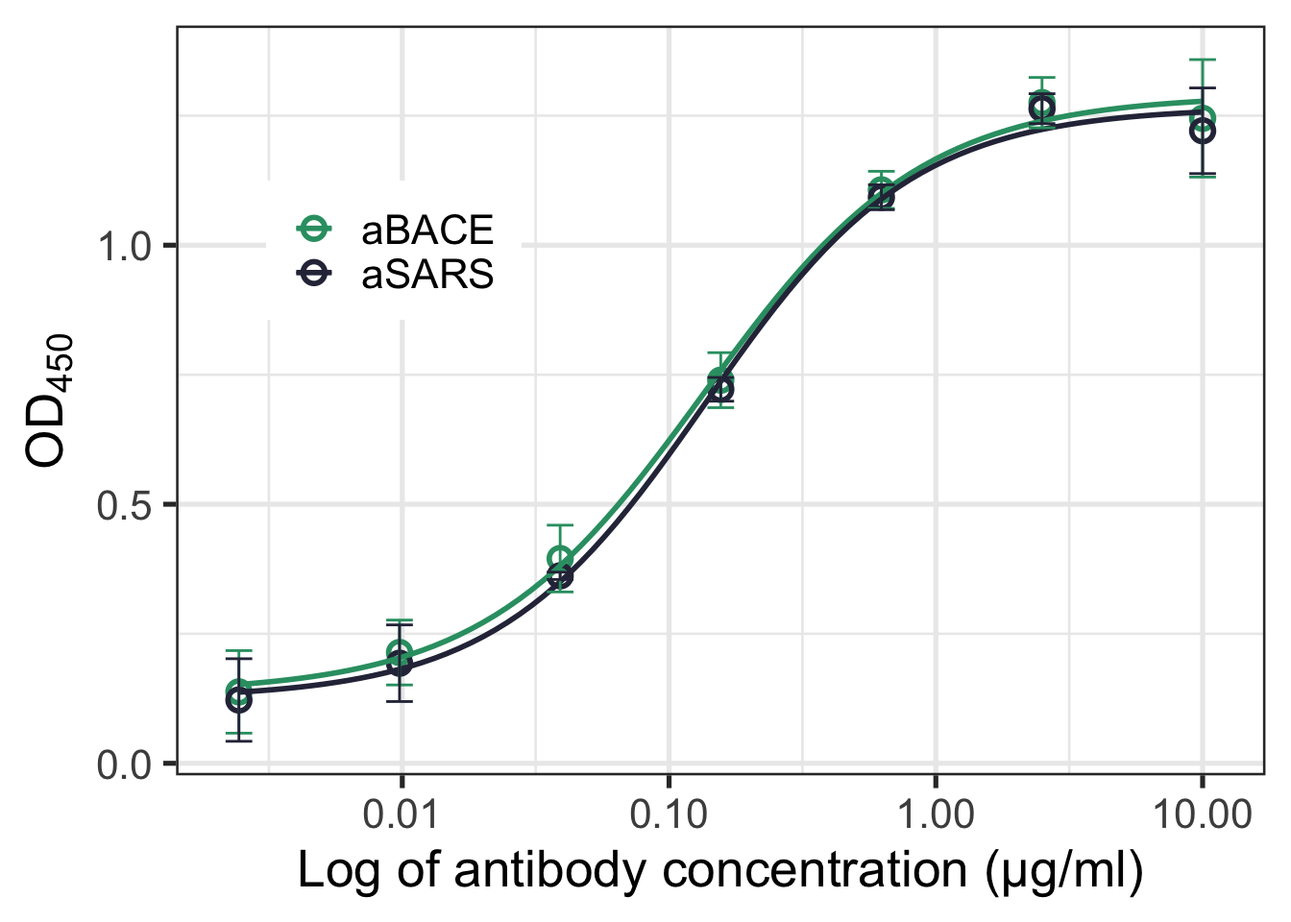
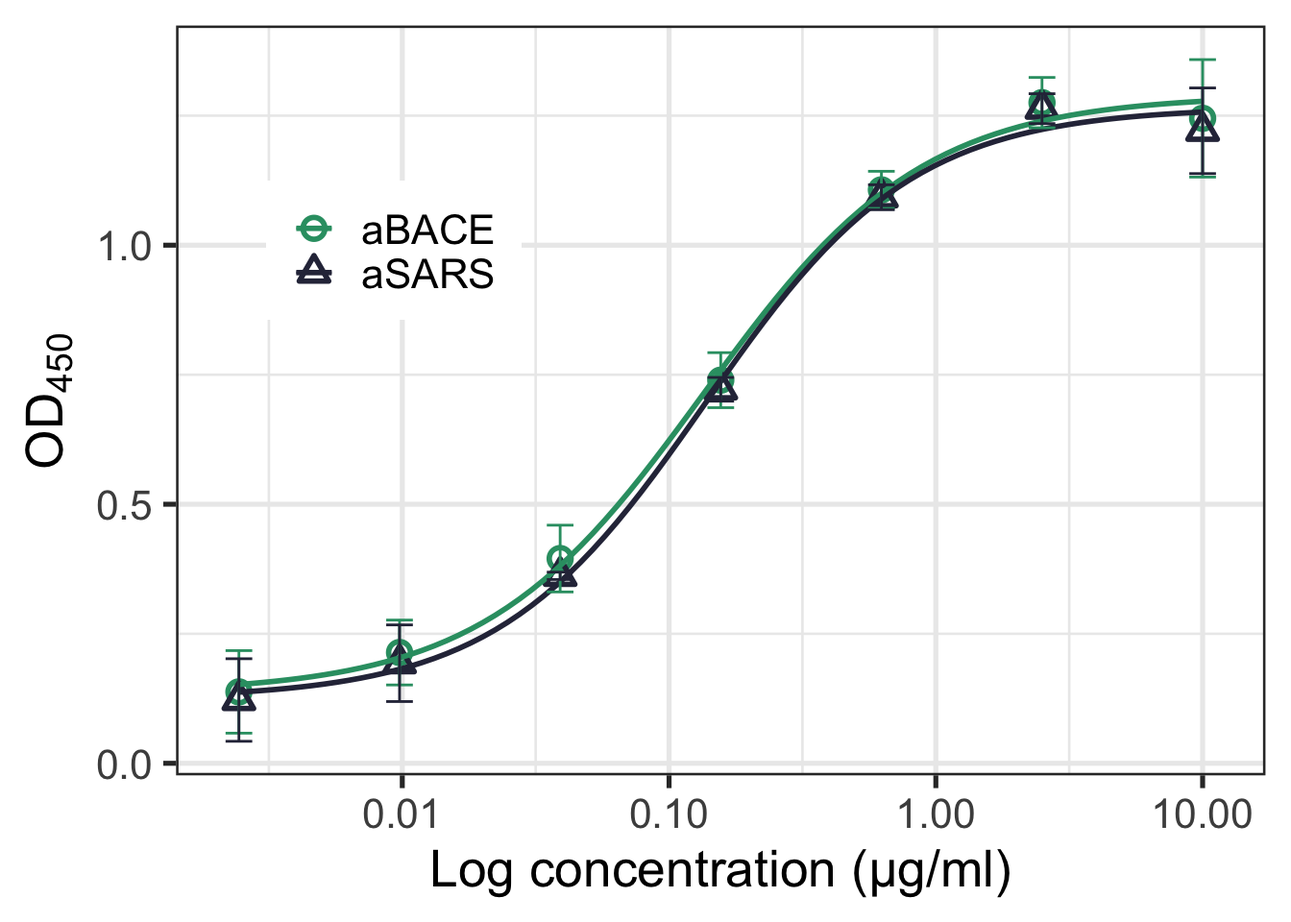
updated

diff --git a/public/blog/elisa_drc/index.html b/public/blog/elisa_drc/index.html
@@ -38,9 +38,9 @@
 
 
     
-        <meta property="og:image" content="//localhost:4321/blog/elisa_drc/featured.jpg" >
+        <meta property="og:image" content="//localhost:4321/blog/elisa_drc/featured.png" >
         <meta property="twitter:card" content="summary_large_image">
-        <meta name="twitter:image" content="//localhost:4321/blog/elisa_drc/featured.jpg" >
+        <meta name="twitter:image" content="//localhost:4321/blog/elisa_drc/featured.png" >
     
     
   
@@ -49,8 +49,8 @@
 library(readr) library(dplyr) library(ggplot2) library(drc) library(broom) The data Our data is a dose response ELISA experiment for two different antibody reagents. The data can be found here.">
   <meta itemprop="datePublished" content="2023-06-08T00:00:00+00:00">
   <meta itemprop="dateModified" content="2023-06-08T00:00:00+00:00">
-  <meta itemprop="wordCount" content="521">
-  <meta itemprop="image" content="//localhost:4321/blog/elisa_drc/featured.jpg">
+  <meta itemprop="wordCount" content="667">
+  <meta itemprop="image" content="//localhost:4321/blog/elisa_drc/featured.png">
   <meta itemprop="keywords" content="ELISA,Dose Response,Ggplot2,Drc,Broom">
   
   <!--[if IE]><script src="//html5shiv.googlecode.com/svn/trunk/html5.js"></script><![endif]-->
@@ -129,7 +129,8 @@ library(readr) library(dplyr) library(ggplot2) library(drc) library(broom) The d
       <path d="M3.9 12c0-1.71 1.39-3.1 3.1-3.1h4V7H7c-2.76.0-5 2.24-5 5s2.24 5 5 5h4v-1.9H7c-1.71.0-3.1-1.39-3.1-3.1zM8 13h8v-2H8v2zm9-6h-4v1.9h4c1.71.0 3.1 1.39 3.1 3.1s-1.39 3.1-3.1 3.1h-4V17h4c2.76.0 5-2.24 5-5s-2.24-5-5-5z"></path>
     </svg></a>
 </h2>
-<p>Our data is a dose response ELISA experiment for two different antibody reagents. The data can be found here.</p>
+<p>Our data is a dose response ELISA experiment for two different antibody reagents. The data can be found 
+<a href="elisa_drc.csv">here</a>.</p>
 <div class="highlight"><pre tabindex="0" style="background-color:#fff;-moz-tab-size:4;-o-tab-size:4;tab-size:4;"><code class="language-r" data-lang="r"><span style="display:flex;"><span>raw_data <span style="color:#0550ae">&lt;-</span> <span style="color:#6639ba">read_csv</span><span style="color:#1f2328">(</span><span style="color:#0a3069">&#34;elisa_drc.csv&#34;</span><span style="color:#1f2328">,</span> show_col_types <span style="color:#0550ae">=</span> <span style="color:#cf222e">FALSE</span><span style="color:#1f2328">)</span>
 </span></span><span style="display:flex;"><span><span style="color:#6639ba">glimpse</span><span style="color:#1f2328">(</span>raw_data<span style="color:#1f2328">)</span>
 </span></span></code></pre></div><pre tabindex="0"><code>## Rows: 50
@@ -160,6 +161,7 @@ library(readr) library(dplyr) library(ggplot2) library(drc) library(broom) The d
       <path d="M3.9 12c0-1.71 1.39-3.1 3.1-3.1h4V7H7c-2.76.0-5 2.24-5 5s2.24 5 5 5h4v-1.9H7c-1.71.0-3.1-1.39-3.1-3.1zM8 13h8v-2H8v2zm9-6h-4v1.9h4c1.71.0 3.1 1.39 3.1 3.1s-1.39 3.1-3.1 3.1h-4V17h4c2.76.0 5-2.24 5-5s-2.24-5-5-5z"></path>
     </svg></a>
 </h2>
+<p>Before plotting, we need to preprocess the data by subtracting the mean blank OD value from each measurement. This ensures that our response values are baseline-corrected, allowing for a more accurate dose-response analysis. The data is then grouped by antibody and concentration to compute the mean and standard deviation for each condition.</p>
 <div class="highlight"><pre tabindex="0" style="background-color:#fff;-moz-tab-size:4;-o-tab-size:4;tab-size:4;"><code class="language-r" data-lang="r"><span style="display:flex;"><span>blank_data <span style="color:#0550ae">&lt;-</span> raw_data <span style="color:#0550ae">|&gt;</span>
 </span></span><span style="display:flex;"><span>    dplyr<span style="color:#0550ae">::</span><span style="color:#6639ba">filter</span><span style="color:#1f2328">(</span>primary_mab_name <span style="color:#0550ae">==</span> <span style="color:#0a3069">&#34;blank&#34;</span><span style="color:#1f2328">)</span>
 </span></span><span style="display:flex;"><span>mean_blank <span style="color:#0550ae">&lt;-</span> <span style="color:#6639ba">mean</span><span style="color:#1f2328">(</span>blank_data[[<span style="color:#0a3069">&#34;od450&#34;</span>]]<span style="color:#1f2328">,</span> na.rm <span style="color:#0550ae">=</span> <span style="color:#cf222e">TRUE</span><span style="color:#1f2328">)</span>
@@ -183,8 +185,7 @@ library(readr) library(dplyr) library(ggplot2) library(drc) library(broom) The d
 ## 4 aBACE                     0.156     0.740  0.0531
 ## 5 aBACE                     0.625     1.11   0.0358
 ## 6 aBACE                     2.5       1.28   0.0486
-</code></pre><p>Wherever you end up wanting to show your social icons, you&rsquo;ll need to start by setting up the links in your site <code>config.toml</code> file. Open that up and scroll down to the <code>[[params.social]]</code> section. The start of it looks like this:</p>
-
+</code></pre>
 
 
 
@@ -194,12 +195,14 @@ library(readr) library(dplyr) library(ggplot2) library(drc) library(broom) The d
       <path d="M3.9 12c0-1.71 1.39-3.1 3.1-3.1h4V7H7c-2.76.0-5 2.24-5 5s2.24 5 5 5h4v-1.9H7c-1.71.0-3.1-1.39-3.1-3.1zM8 13h8v-2H8v2zm9-6h-4v1.9h4c1.71.0 3.1 1.39 3.1 3.1s-1.39 3.1-3.1 3.1h-4V17h4c2.76.0 5-2.24 5-5s-2.24-5-5-5z"></path>
     </svg></a>
 </h2>
+<p>The plot visualizes the dose-response relationship of two antibody reagents using four-parameter logistic (4PL) in the <code>drc</code> package.</p>
 <div class="highlight"><pre tabindex="0" style="background-color:#fff;-moz-tab-size:4;-o-tab-size:4;tab-size:4;"><code class="language-r" data-lang="r"><span style="display:flex;"><span><span style="color:#6639ba">theme_set</span><span style="color:#1f2328">(</span><span style="color:#6639ba">theme_bw</span><span style="color:#1f2328">(</span>base_size <span style="color:#0550ae">=</span> <span style="color:#0550ae">20</span><span style="color:#1f2328">))</span>
 </span></span><span style="display:flex;"><span><span style="color:#6639ba">ggplot</span><span style="color:#1f2328">(</span>summary<span style="color:#1f2328">,</span> <span style="color:#6639ba">aes</span><span style="color:#1f2328">(</span>x <span style="color:#0550ae">=</span> primary_mab_conc<span style="color:#1f2328">,</span> 
 </span></span><span style="display:flex;"><span>                    y <span style="color:#0550ae">=</span> mean_od<span style="color:#1f2328">,</span> 
 </span></span><span style="display:flex;"><span>                    group <span style="color:#0550ae">=</span> primary_mab_name<span style="color:#1f2328">,</span> 
-</span></span><span style="display:flex;"><span>                    color <span style="color:#0550ae">=</span> primary_mab_name<span style="color:#1f2328">))</span> <span style="color:#0550ae">+</span>
-</span></span><span style="display:flex;"><span>  <span style="color:#6639ba">geom_point</span><span style="color:#1f2328">(</span>shape <span style="color:#0550ae">=</span> <span style="color:#0550ae">21</span><span style="color:#1f2328">,</span> size <span style="color:#0550ae">=</span> <span style="color:#0550ae">3</span><span style="color:#1f2328">,</span> stroke <span style="color:#0550ae">=</span> <span style="color:#0550ae">1.5</span><span style="color:#1f2328">)</span> <span style="color:#0550ae">+</span>
+</span></span><span style="display:flex;"><span>                    color <span style="color:#0550ae">=</span> primary_mab_name<span style="color:#1f2328">,</span>
+</span></span><span style="display:flex;"><span>                    shape <span style="color:#0550ae">=</span> primary_mab_name<span style="color:#1f2328">))</span> <span style="color:#0550ae">+</span>
+</span></span><span style="display:flex;"><span>  <span style="color:#6639ba">geom_point</span><span style="color:#1f2328">(</span>size <span style="color:#0550ae">=</span> <span style="color:#0550ae">3</span><span style="color:#1f2328">,</span> stroke <span style="color:#0550ae">=</span> <span style="color:#0550ae">1.5</span><span style="color:#1f2328">)</span> <span style="color:#0550ae">+</span>
 </span></span><span style="display:flex;"><span>  <span style="color:#6639ba">geom_smooth</span><span style="color:#1f2328">(</span>method <span style="color:#0550ae">=</span> drc<span style="color:#0550ae">::</span>drm<span style="color:#1f2328">,</span> 
 </span></span><span style="display:flex;"><span>              method.args <span style="color:#0550ae">=</span> <span style="color:#6639ba">list</span><span style="color:#1f2328">(</span>fct <span style="color:#0550ae">=</span> drc<span style="color:#0550ae">::</span><span style="color:#6639ba">L.4</span><span style="color:#1f2328">()),</span>
 </span></span><span style="display:flex;"><span>              se <span style="color:#0550ae">=</span> <span style="color:#cf222e">FALSE</span><span style="color:#1f2328">,</span> linewidth <span style="color:#0550ae">=</span> <span style="color:#0550ae">1</span><span style="color:#1f2328">)</span> <span style="color:#0550ae">+</span>
@@ -207,14 +210,14 @@ library(readr) library(dplyr) library(ggplot2) library(drc) library(broom) The d
 </span></span><span style="display:flex;"><span>                    ymax <span style="color:#0550ae">=</span> mean_od <span style="color:#0550ae">+</span> mean_sd<span style="color:#1f2328">),</span>
 </span></span><span style="display:flex;"><span>                width <span style="color:#0550ae">=</span> <span style="color:#0550ae">0.1</span><span style="color:#1f2328">)</span> <span style="color:#0550ae">+</span>
 </span></span><span style="display:flex;"><span>  <span style="color:#6639ba">scale_x_log10</span><span style="color:#1f2328">()</span> <span style="color:#0550ae">+</span>
-</span></span><span style="display:flex;"><span>  <span style="color:#6639ba">scale_color_manual</span><span style="color:#1f2328">(</span>values <span style="color:#0550ae">=</span> <span style="color:#6639ba">c</span><span style="color:#1f2328">(</span><span style="color:#0a3069">&#34;#2F9D72&#34;</span><span style="color:#1f2328">,</span> <span style="color:#0a3069">&#34;#2D3047&#34;</span><span style="color:#1f2328">))</span> <span style="color:#0550ae">+</span>
-</span></span><span style="display:flex;"><span>  <span style="color:#6639ba">labs</span><span style="color:#1f2328">(</span>x <span style="color:#0550ae">=</span> <span style="color:#0a3069">&#34;Log of antibody concentration (µg/ml)&#34;</span><span style="color:#1f2328">,</span>
+</span></span><span style="display:flex;"><span>  <span style="color:#6639ba">scale_color_manual</span><span style="color:#1f2328">(</span>name <span style="color:#0550ae">=</span> <span style="color:#cf222e">NULL</span><span style="color:#1f2328">,</span> values <span style="color:#0550ae">=</span> <span style="color:#6639ba">c</span><span style="color:#1f2328">(</span><span style="color:#0a3069">&#34;#2F9D72&#34;</span><span style="color:#1f2328">,</span> <span style="color:#0a3069">&#34;#2D3047&#34;</span><span style="color:#1f2328">))</span> <span style="color:#0550ae">+</span>
+</span></span><span style="display:flex;"><span>  <span style="color:#6639ba">scale_shape_manual</span><span style="color:#1f2328">(</span>name <span style="color:#0550ae">=</span> <span style="color:#cf222e">NULL</span><span style="color:#1f2328">,</span> values <span style="color:#0550ae">=</span> <span style="color:#6639ba">c</span><span style="color:#1f2328">(</span><span style="color:#0550ae">1</span><span style="color:#1f2328">,</span> <span style="color:#0550ae">2</span><span style="color:#1f2328">))</span> <span style="color:#0550ae">+</span>
+</span></span><span style="display:flex;"><span>  <span style="color:#6639ba">labs</span><span style="color:#1f2328">(</span>x <span style="color:#0550ae">=</span> <span style="color:#0a3069">&#34;Log concentration (µg/ml)&#34;</span><span style="color:#1f2328">,</span>
 </span></span><span style="display:flex;"><span>       y <span style="color:#0550ae">=</span> <span style="color:#6639ba">expression</span><span style="color:#1f2328">(</span>OD[450]<span style="color:#1f2328">),</span>
 </span></span><span style="display:flex;"><span>       color <span style="color:#0550ae">=</span> <span style="color:#cf222e">NULL</span><span style="color:#1f2328">)</span> <span style="color:#0550ae">+</span>
 </span></span><span style="display:flex;"><span>  <span style="color:#6639ba">theme</span><span style="color:#1f2328">(</span>legend.position <span style="color:#0550ae">=</span> <span style="color:#0a3069">&#34;inside&#34;</span><span style="color:#1f2328">,</span>
 </span></span><span style="display:flex;"><span>        legend.position.inside <span style="color:#0550ae">=</span> <span style="color:#6639ba">c</span><span style="color:#1f2328">(</span><span style="color:#0550ae">0.2</span><span style="color:#1f2328">,</span> <span style="color:#0550ae">0.7</span><span style="color:#1f2328">))</span>
-</span></span></code></pre></div><pre tabindex="0"><code>## `geom_smooth()` using formula = &#39;y ~ x&#39;
-</code></pre><img src="/blog/elisa_drc/index_files/figure-html/plot-data-1.png" width="672" />
+</span></span></code></pre></div><img src="/blog/elisa_drc/index_files/figure-html/plot-data-1.png" width="672" />
 
 
 
@@ -225,23 +228,35 @@ library(readr) library(dplyr) library(ggplot2) library(drc) library(broom) The d
       <path d="M3.9 12c0-1.71 1.39-3.1 3.1-3.1h4V7H7c-2.76.0-5 2.24-5 5s2.24 5 5 5h4v-1.9H7c-1.71.0-3.1-1.39-3.1-3.1zM8 13h8v-2H8v2zm9-6h-4v1.9h4c1.71.0 3.1 1.39 3.1 3.1s-1.39 3.1-3.1 3.1h-4V17h4c2.76.0 5-2.24 5-5s-2.24-5-5-5z"></path>
     </svg></a>
 </h2>
+<p>After fitting the logistic regression model, we analyze the goodness of fit and residuals. The <code>tidy()</code>, <code>glance()</code>, and <code>augment()</code> functions from the <code>broom</code> package allow us to:</p>
+<ul>
+<li>Extract parameter estimates, including the slope and effective dose (ED50).</li>
+<li>Assess model fit statistics.</li>
+<li>Examine residuals to check for systematic deviations or patterns.</li>
+</ul>
 <div class="highlight"><pre tabindex="0" style="background-color:#fff;-moz-tab-size:4;-o-tab-size:4;tab-size:4;"><code class="language-r" data-lang="r"><span style="display:flex;"><span>raw_data_no_blanks <span style="color:#0550ae">&lt;-</span> <span style="color:#6639ba">subset</span><span style="color:#1f2328">(</span>raw_data<span style="color:#1f2328">,</span> primary_mab_name <span style="color:#0550ae">!=</span> <span style="color:#0a3069">&#34;blank&#34;</span><span style="color:#1f2328">)</span>
 </span></span><span style="display:flex;"><span>drm_model <span style="color:#0550ae">&lt;-</span> <span style="color:#6639ba">drm</span><span style="color:#1f2328">(</span>formula <span style="color:#0550ae">=</span> od450<span style="color:#0550ae">~</span>primary_mab_conc<span style="color:#1f2328">,</span> 
 </span></span><span style="display:flex;"><span>                 curveid <span style="color:#0550ae">=</span> primary_mab_name<span style="color:#1f2328">,</span> 
 </span></span><span style="display:flex;"><span>                 data <span style="color:#0550ae">=</span> raw_data_no_blanks<span style="color:#1f2328">,</span> 
 </span></span><span style="display:flex;"><span>                 fct <span style="color:#0550ae">=</span> <span style="color:#6639ba">LL.4</span><span style="color:#1f2328">(</span>names<span style="color:#0550ae">=</span><span style="color:#6639ba">c</span><span style="color:#1f2328">(</span><span style="color:#0a3069">&#34;Slope&#34;</span><span style="color:#1f2328">,</span> <span style="color:#0a3069">&#34;Lower&#34;</span><span style="color:#1f2328">,</span> <span style="color:#0a3069">&#34;Upper&#34;</span><span style="color:#1f2328">,</span> <span style="color:#0a3069">&#34;ED50&#34;</span><span style="color:#1f2328">)))</span>
-</span></span><span style="display:flex;"><span><span style="color:#57606a"># tidy(drm_model)</span>
-</span></span><span style="display:flex;"><span><span style="color:#57606a"># glance(drm_model)</span>
-</span></span><span style="display:flex;"><span><span style="color:#57606a"># augment(drm_model, data = raw_data_no_blanks)</span>
-</span></span></code></pre></div><div class="highlight"><pre tabindex="0" style="background-color:#fff;-moz-tab-size:4;-o-tab-size:4;tab-size:4;"><code class="language-r" data-lang="r"><span style="display:flex;"><span><span style="color:#6639ba">ggplot</span><span style="color:#1f2328">(</span><span style="color:#6639ba">augment</span><span style="color:#1f2328">(</span>drm_model<span style="color:#1f2328">,</span> data <span style="color:#0550ae">=</span> raw_data_no_blanks<span style="color:#1f2328">),</span> 
-</span></span><span style="display:flex;"><span>       <span style="color:#6639ba">aes</span><span style="color:#1f2328">(</span>.fitted<span style="color:#1f2328">,</span> .resid<span style="color:#1f2328">,</span> color <span style="color:#0550ae">=</span> <span style="color:#6639ba">as.factor</span><span style="color:#1f2328">(</span>primary_mab_conc<span style="color:#1f2328">)))</span> <span style="color:#0550ae">+</span>
-</span></span><span style="display:flex;"><span>  <span style="color:#6639ba">geom_hline</span><span style="color:#1f2328">(</span>yintercept <span style="color:#0550ae">=</span> <span style="color:#0550ae">0</span><span style="color:#1f2328">)</span> <span style="color:#0550ae">+</span>
-</span></span><span style="display:flex;"><span>  <span style="color:#6639ba">geom_point</span><span style="color:#1f2328">(</span>shape <span style="color:#0550ae">=</span> <span style="color:#0550ae">21</span><span style="color:#1f2328">,</span> size <span style="color:#0550ae">=</span> <span style="color:#0550ae">3</span><span style="color:#1f2328">,</span> stroke <span style="color:#0550ae">=</span> <span style="color:#0550ae">1.5</span><span style="color:#1f2328">)</span> <span style="color:#0550ae">+</span>
-</span></span><span style="display:flex;"><span>  <span style="color:#6639ba">labs</span><span style="color:#1f2328">(</span>color <span style="color:#0550ae">=</span> <span style="color:#0a3069">&#34;dilutions&#34;</span><span style="color:#1f2328">)</span> <span style="color:#0550ae">+</span>
-</span></span><span style="display:flex;"><span>  <span style="color:#6639ba">facet_grid</span><span style="color:#1f2328">(</span>cols <span style="color:#0550ae">=</span> <span style="color:#6639ba">vars</span><span style="color:#1f2328">(</span>primary_mab_name<span style="color:#1f2328">))</span>
-</span></span></code></pre></div><pre tabindex="0"><code>## Warning in model$der: partial match of &#39;der&#39; to &#39;deriv1&#39;
-</code></pre><img src="/blog/elisa_drc/index_files/figure-html/fit-data-2-1.png" width="672" />
-
+</span></span><span style="display:flex;"><span><span style="color:#6639ba">tidy</span><span style="color:#1f2328">(</span>drm_model<span style="color:#1f2328">)</span>
+</span></span></code></pre></div><pre tabindex="0"><code>## # A tibble: 8 × 6
+##   term  curve estimate std.error statistic  p.value
+##   &lt;chr&gt; &lt;chr&gt;    &lt;dbl&gt;     &lt;dbl&gt;     &lt;dbl&gt;    &lt;dbl&gt;
+## 1 Slope aBACE   -1.06     0.140      -7.56 8.83e- 9
+## 2 Slope aSARS   -1.12     0.147      -7.61 7.66e- 9
+## 3 Lower aBACE    0.179    0.0376      4.77 3.44e- 5
+## 4 Lower aSARS    0.168    0.0355      4.74 3.70e- 5
+## 5 Upper aBACE    1.33     0.0327     40.7  9.60e-31
+## 6 Upper aSARS    1.31     0.0314     41.7  4.42e-31
+## 7 ED50  aBACE    0.134    0.0180      7.46 1.19e- 8
+## 8 ED50  aSARS    0.137    0.0175      7.83 4.05e- 9
+</code></pre><div class="highlight"><pre tabindex="0" style="background-color:#fff;-moz-tab-size:4;-o-tab-size:4;tab-size:4;"><code class="language-r" data-lang="r"><span style="display:flex;"><span><span style="color:#6639ba">glance</span><span style="color:#1f2328">(</span>drm_model<span style="color:#1f2328">)</span>
+</span></span></code></pre></div><pre tabindex="0"><code>## # A tibble: 1 × 4
+##     AIC   BIC logLik   df.residual
+##   &lt;dbl&gt; &lt;dbl&gt; &lt;logLik&gt;       &lt;int&gt;
+## 1 -106. -90.0 61.82541          34
+</code></pre>
         
         <details closed class="f6 fw7 input-reset">
   <dl class="f6 lh-copy">
@@ -250,7 +265,7 @@ library(readr) library(dplyr) library(ggplot2) library(drc) library(broom) The d
   </dl>
   <dl class="f6 lh-copy">
     <dt class="fw7">Length:</dt>
-    <dd class="fw5 ml0">3 minute read, 521 words</dd>
+    <dd class="fw5 ml0">4 minute read, 667 words</dd>
   </dl>
   
   <dl class="f6 lh-copy">

diff --git a/public/blog/index.html b/public/blog/index.html
@@ -122,7 +122,7 @@ tags, series, and pagination.">
     <figure class="mr4-ns ma0 mb2 mb0-l w-100 w-40-ns">
       <a href="/blog/elisa_drc/" class="db">
         
-          <img src="//localhost:4321/blog/elisa_drc/featured.jpg" class="db ma0 dim" alt="">
+          <img src="//localhost:4321/blog/elisa_drc/featured.png" class="db ma0 dim" alt="">
         
       </a>
     </figure>
@@ -132,7 +132,7 @@ tags, series, and pagination.">
         
       </header>
       
-      <p class="f6 lh-copy mv2 flex-auto">This theme offers built-in Font Awesome icons for organizing your collection of social accounts and their links. Use icons to help visitors find you wherever you want to be found, and learn how to show or hide them in your site&rsquo;s header, footer, homepage, about page, and contact form.</p>
+      <p class="f6 lh-copy mv2 flex-auto">A step-by-step guide to fitting dose-response curves on ELISA data in R using <code>ggplot2</code>, <code>drc</code>, and <code>broom.</code> This tutorial walks through data preparation, visualization, curve fitting, and statistical analysis of the model.</p>
       <footer class="w-100">
       
       <p class="f7 db mv1">By Shubham Dutta in <a href="//localhost:4321/categories/elisa">ELISA</a>  <a href="//localhost:4321/categories/dose-response">dose response</a>  <a href="//localhost:4321/categories/ggplot2">ggplot2</a>  <a href="//localhost:4321/categories/drc">drc</a>  <a href="//localhost:4321/categories/broom">broom</a> </p>

diff --git a/public/about/index.html b/public/about/index.html
@@ -161,14 +161,14 @@
             
             <a href="/blog/elisa_drc/">
               
-              <img src="//localhost:4321/blog/elisa_drc/featured.jpg" align="left" class="mw-100 db">
+              <img src="//localhost:4321/blog/elisa_drc/featured.png" align="left" class="mw-100 db">
             
             </a>
           </figure>
 
         <div class="w-100 w-80-ns pl3-ns">
       
-      <p class="measure lh-copy cf">This theme offers built-in Font Awesome icons for organizing your collection of social accounts and their links. Use icons to help visitors find you wherever you want to be found, and learn how to show or hide them in your site&rsquo;s header, footer, homepage, about page, and contact form.</p>
+      <p class="measure lh-copy cf">A step-by-step guide to fitting dose-response curves on ELISA data in R using <code>ggplot2</code>, <code>drc</code>, and <code>broom.</code> This tutorial walks through data preparation, visualization, curve fitting, and statistical analysis of the model.</p>
           <a href="/blog/elisa_drc/">Read more</a></p>
         </div>
     </article>

diff --git a/public/categories/broom/index.html b/public/categories/broom/index.html
@@ -119,7 +119,7 @@
       
     </header>
       
-      <p class="lh-copy mb4">This theme offers built-in Font Awesome icons for organizing your collection of social accounts and their links. Use icons to help visitors find you wherever you want to be found, and learn how to show or hide them in your site&rsquo;s header, footer, homepage, about page, and contact form.</p>
+      <p class="lh-copy mb4">A step-by-step guide to fitting dose-response curves on ELISA data in R using <code>ggplot2</code>, <code>drc</code>, and <code>broom.</code> This tutorial walks through data preparation, visualization, curve fitting, and statistical analysis of the model.</p>
     <footer>
       
       

diff --git a/public/categories/dose-response/index.html b/public/categories/dose-response/index.html
@@ -119,7 +119,7 @@
       
     </header>
       
-      <p class="lh-copy mb4">This theme offers built-in Font Awesome icons for organizing your collection of social accounts and their links. Use icons to help visitors find you wherever you want to be found, and learn how to show or hide them in your site&rsquo;s header, footer, homepage, about page, and contact form.</p>
+      <p class="lh-copy mb4">A step-by-step guide to fitting dose-response curves on ELISA data in R using <code>ggplot2</code>, <code>drc</code>, and <code>broom.</code> This tutorial walks through data preparation, visualization, curve fitting, and statistical analysis of the model.</p>
     <footer>
       
       

diff --git a/public/categories/drc/index.html b/public/categories/drc/index.html
@@ -119,7 +119,7 @@
       
     </header>
       
-      <p class="lh-copy mb4">This theme offers built-in Font Awesome icons for organizing your collection of social accounts and their links. Use icons to help visitors find you wherever you want to be found, and learn how to show or hide them in your site&rsquo;s header, footer, homepage, about page, and contact form.</p>
+      <p class="lh-copy mb4">A step-by-step guide to fitting dose-response curves on ELISA data in R using <code>ggplot2</code>, <code>drc</code>, and <code>broom.</code> This tutorial walks through data preparation, visualization, curve fitting, and statistical analysis of the model.</p>
     <footer>
       
       

diff --git a/public/categories/elisa/index.html b/public/categories/elisa/index.html
@@ -119,7 +119,7 @@
       
     </header>
       
-      <p class="lh-copy mb4">This theme offers built-in Font Awesome icons for organizing your collection of social accounts and their links. Use icons to help visitors find you wherever you want to be found, and learn how to show or hide them in your site&rsquo;s header, footer, homepage, about page, and contact form.</p>
+      <p class="lh-copy mb4">A step-by-step guide to fitting dose-response curves on ELISA data in R using <code>ggplot2</code>, <code>drc</code>, and <code>broom.</code> This tutorial walks through data preparation, visualization, curve fitting, and statistical analysis of the model.</p>
     <footer>
       
       

diff --git a/public/categories/ggplot2/index.html b/public/categories/ggplot2/index.html
@@ -119,7 +119,7 @@
       
     </header>
       
-      <p class="lh-copy mb4">This theme offers built-in Font Awesome icons for organizing your collection of social accounts and their links. Use icons to help visitors find you wherever you want to be found, and learn how to show or hide them in your site&rsquo;s header, footer, homepage, about page, and contact form.</p>
+      <p class="lh-copy mb4">A step-by-step guide to fitting dose-response curves on ELISA data in R using <code>ggplot2</code>, <code>drc</code>, and <code>broom.</code> This tutorial walks through data preparation, visualization, curve fitting, and statistical analysis of the model.</p>
     <footer>
       
       

diff --git a/content/blog/elisa_drc/index.md b/content/blog/elisa_drc/index.md
@@ -8,10 +8,7 @@ categories:
 - broom
 date: "2023-06-08"
 draft: false
-excerpt: This theme offers built-in Font Awesome icons for organizing your collection
-  of social accounts and their links. Use icons to help visitors find you wherever
-  you want to be found, and learn how to show or hide them in your site's header,
-  footer, homepage, about page, and contact form.
+excerpt: A step-by-step guide to fitting dose-response curves on ELISA data in R using `ggplot2`, `drc`, and `broom.` This tutorial walks through data preparation, visualization, curve fitting, and statistical analysis of the model.
 layout: single
 subtitle: A working example of how to fit dose response curves on ELISA data in R.
 title: Dose response curve fitting in R
@@ -30,7 +27,7 @@ library(broom)
 
 ## The data
 
-Our data is a dose response ELISA experiment for two different antibody reagents. The data can be found here.
+Our data is a dose response ELISA experiment for two different antibody reagents. The data can be found [here](elisa_drc.csv).
 
 
 ``` r
@@ -60,6 +57,7 @@ Let's focus on three variables.
 
 ## Prepare data before plotting
 
+Before plotting, we need to preprocess the data by subtracting the mean blank OD value from each measurement. This ensures that our response values are baseline-corrected, allowing for a more accurate dose-response analysis. The data is then grouped by antibody and concentration to compute the mean and standard deviation for each condition.
 
 
 ``` r
@@ -91,9 +89,9 @@ head(summary)
 ## 6 aBACE                     2.5       1.28   0.0486
 ```
 
-Wherever you end up wanting to show your social icons, you'll need to start by setting up the links in your site `config.toml` file. Open that up and scroll down to the `[[params.social]]` section. The start of it looks like this:
-
 ## The final plot
+
+The plot visualizes the dose-response relationship of two antibody reagents using four-parameter logistic (4PL) in the `drc` package.
 
 
 ``` r
@@ -101,8 +99,9 @@ theme_set(theme_bw(base_size = 20))
 ggplot(summary, aes(x = primary_mab_conc, 
                     y = mean_od, 
                     group = primary_mab_name, 
-                    color = primary_mab_name)) +
-  geom_point(shape = 21, size = 3, stroke = 1.5) +
+                    color = primary_mab_name,
+                    shape = primary_mab_name)) +
+  geom_point(size = 3, stroke = 1.5) +
   geom_smooth(method = drc::drm, 
               method.args = list(fct = drc::L.4()),
               se = FALSE, linewidth = 1) +
@@ -110,21 +109,24 @@ ggplot(summary, aes(x = primary_mab_conc,
                     ymax = mean_od + mean_sd),
                 width = 0.1) +
   scale_x_log10() +
-  scale_color_manual(values = c("#2F9D72", "#2D3047")) +
-  labs(x = "Log of antibody concentration (µg/ml)",
+  scale_color_manual(name = NULL, values = c("#2F9D72", "#2D3047")) +
+  scale_shape_manual(name = NULL, values = c(1, 2)) +
+  labs(x = "Log concentration (µg/ml)",
        y = expression(OD[450]),
        color = NULL) +
   theme(legend.position = "inside",
         legend.position.inside = c(0.2, 0.7))
 ```
 
-```
-## `geom_smooth()` using formula = 'y ~ x'
-```
-
 <img src="{{< blogdown/postref >}}index_files/figure-html/plot-data-1.png" width="672" />
 
 ## Statistical analysis of the fit
+
+After fitting the logistic regression model, we analyze the goodness of fit and residuals. The `tidy()`, `glance()`, and `augment()` functions from the `broom` package allow us to:
+
+-   Extract parameter estimates, including the slope and effective dose (ED50).
+-   Assess model fit statistics.
+-   Examine residuals to check for systematic deviations or patterns.
 
 
 ``` r
@@ -133,23 +135,30 @@ drm_model <- drm(formula = od450~primary_mab_conc,
                  curveid = primary_mab_name, 
                  data = raw_data_no_blanks, 
                  fct = LL.4(names=c("Slope", "Lower", "Upper", "ED50")))
-# tidy(drm_model)
-# glance(drm_model)
-# augment(drm_model, data = raw_data_no_blanks)
+tidy(drm_model)
 ```
 
+```
+## # A tibble: 8 × 6
+##   term  curve estimate std.error statistic  p.value
+##   <chr> <chr>    <dbl>     <dbl>     <dbl>    <dbl>
+## 1 Slope aBACE   -1.06     0.140      -7.56 8.83e- 9
+## 2 Slope aSARS   -1.12     0.147      -7.61 7.66e- 9
+## 3 Lower aBACE    0.179    0.0376      4.77 3.44e- 5
+## 4 Lower aSARS    0.168    0.0355      4.74 3.70e- 5
+## 5 Upper aBACE    1.33     0.0327     40.7  9.60e-31
+## 6 Upper aSARS    1.31     0.0314     41.7  4.42e-31
+## 7 ED50  aBACE    0.134    0.0180      7.46 1.19e- 8
+## 8 ED50  aSARS    0.137    0.0175      7.83 4.05e- 9
+```
 
 ``` r
-ggplot(augment(drm_model, data = raw_data_no_blanks), 
-       aes(.fitted, .resid, color = as.factor(primary_mab_conc))) +
-  geom_hline(yintercept = 0) +
-  geom_point(shape = 21, size = 3, stroke = 1.5) +
-  labs(color = "dilutions") +
-  facet_grid(cols = vars(primary_mab_name))
+glance(drm_model)
 ```
 
 ```
-## Warning in model$der: partial match of 'der' to 'deriv1'
+## # A tibble: 1 × 4
+##     AIC   BIC logLik   df.residual
+##   <dbl> <dbl> <logLik>       <int>
+## 1 -106. -90.0 61.82541          34
 ```
-
-<img src="{{< blogdown/postref >}}index_files/figure-html/fit-data-2-1.png" width="672" />
